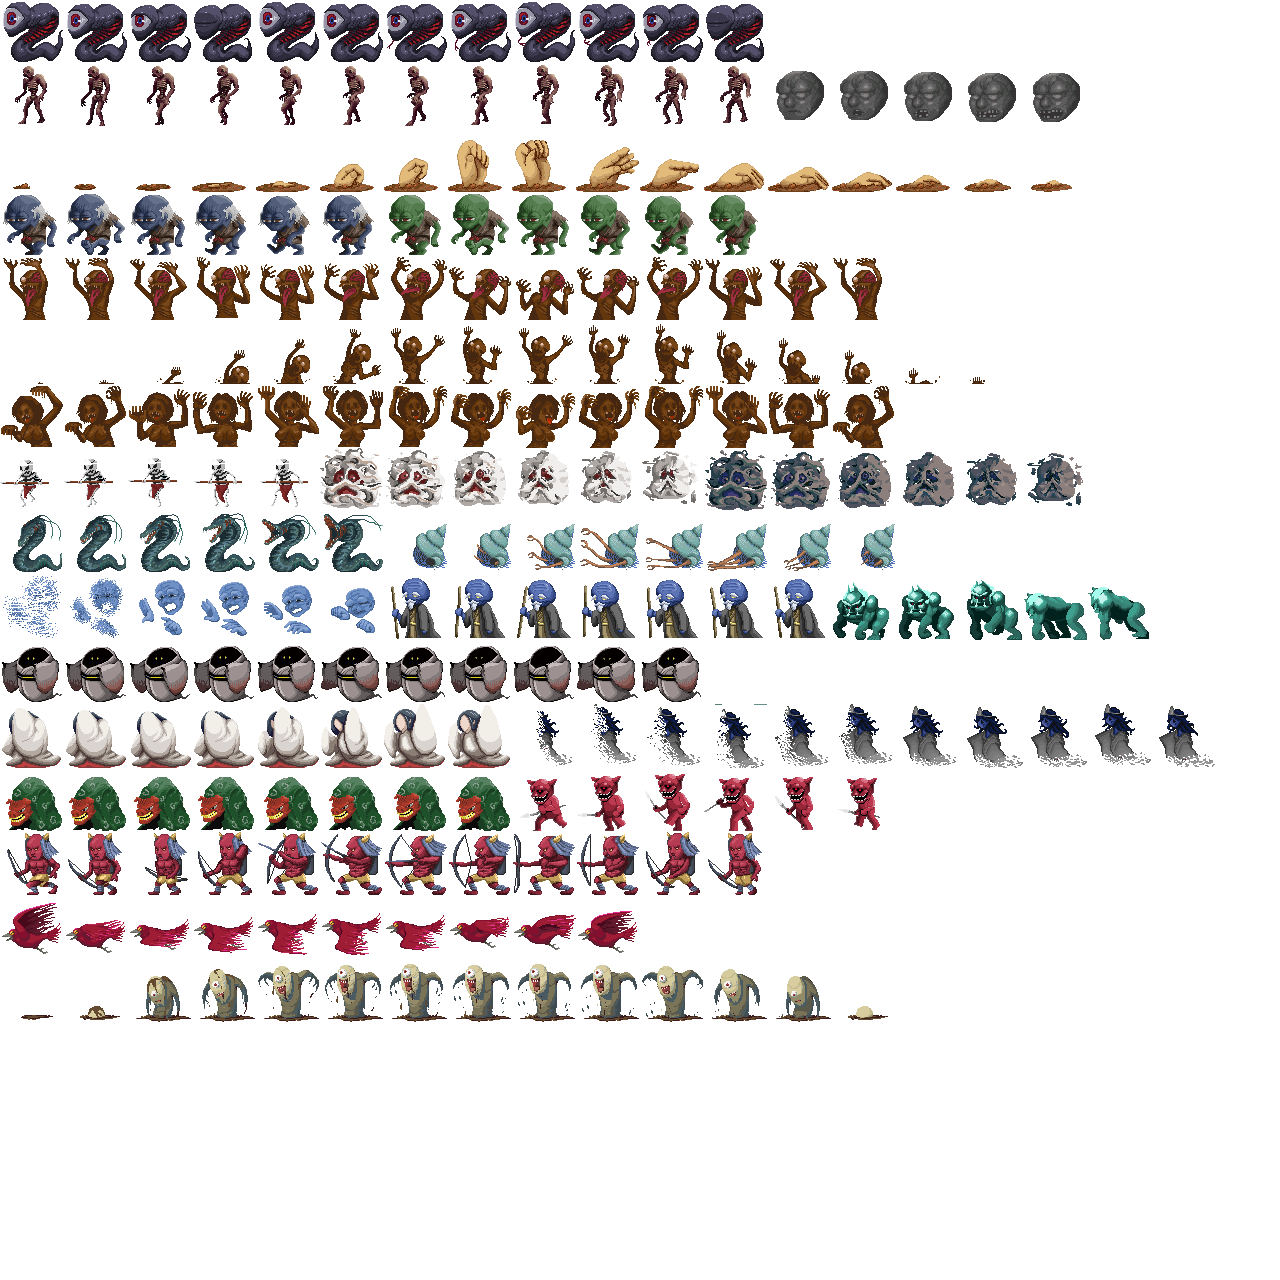
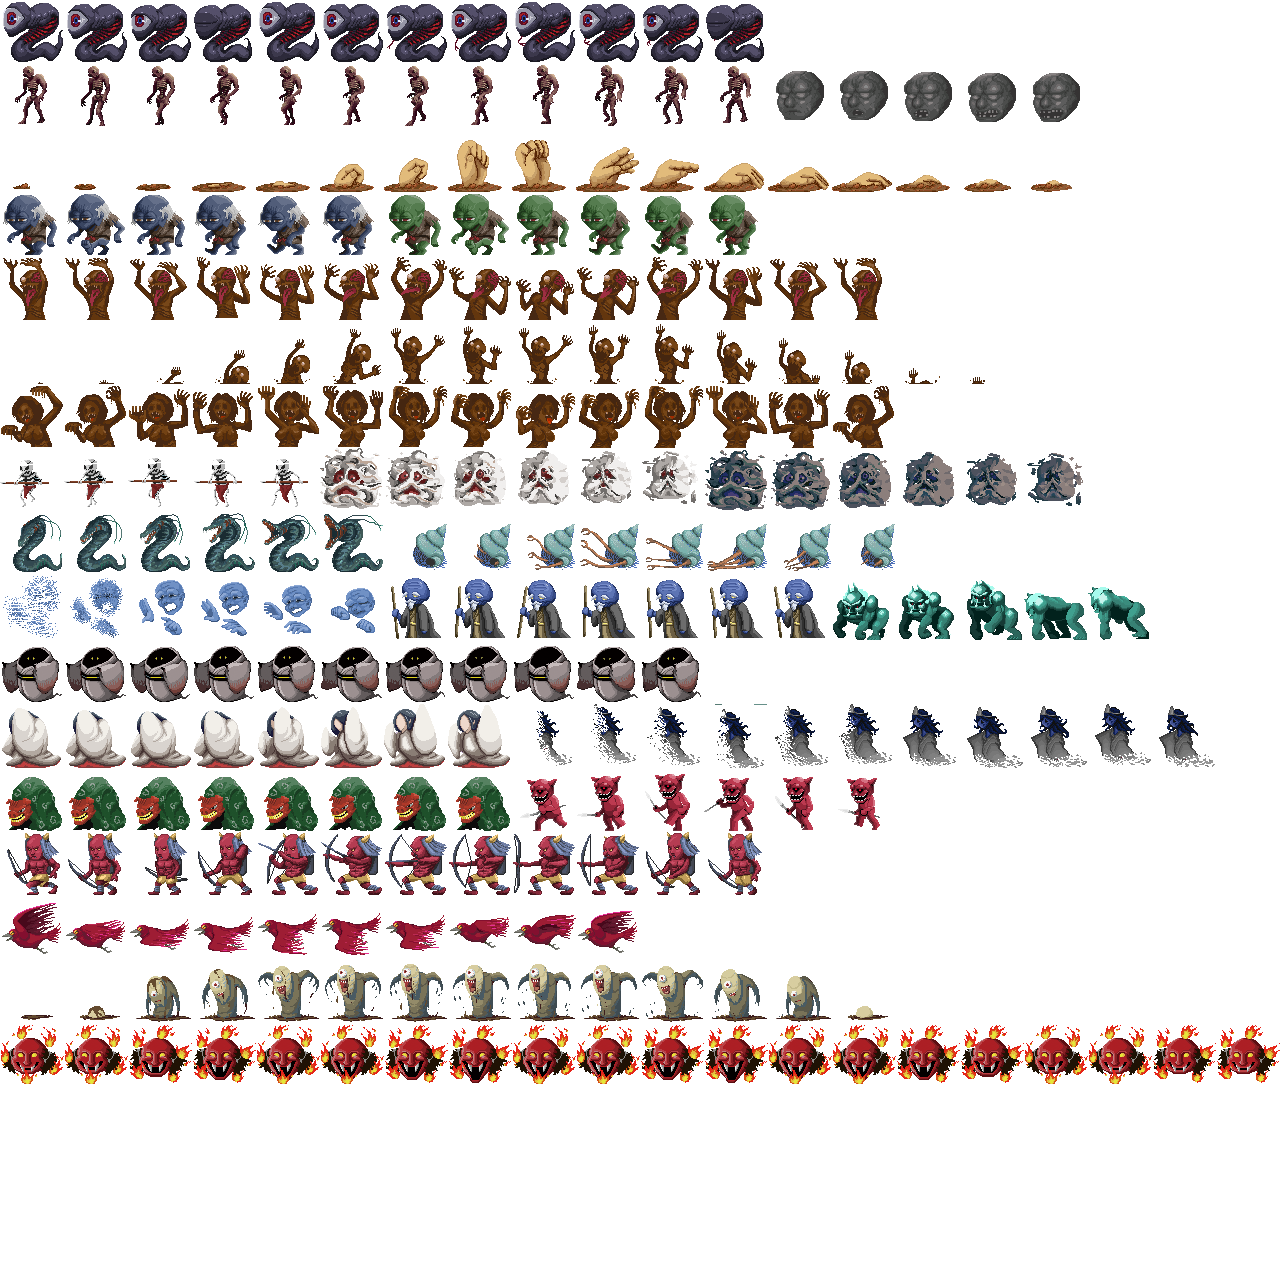
hellfire

Changed region(s): [[0.0, 0.7812, 1.0, 0.8438]]

diff --git a/Solution/AceLiveMonitor/EnemyHellFire.cpp b/Solution/AceLiveMonitor/EnemyHellFire.cpp
@@ -1,39 +1,37 @@
-#include "EnemyCrocoSnake.h"
+#include "EnemyHellFire.h"
+#include "Family.h"
 
+static const int HP = 3;
+static const double MOVE_SPEED = 3;
+static const double ACCEL = 0.5;
 static const int WAIT_ANIM_TIME = 5;
-static const int MOVE_SPEED = 1;
-static const int MAX_HP = 3;
 
-EnemyCrocoSnake::EnemyCrocoSnake( const Vector& pos ) :
-Enemy( pos, NORMAL_CHAR_GRAPH_SIZE, MAX_HP ),
-_before_pos( Vector( ) ) {
-	setRadius( 30 );
+EnemyHellFire::EnemyHellFire( const Vector& pos ) :
+Enemy( pos, NORMAL_CHAR_GRAPH_SIZE, HP, false ) {
 	setVec( Vector( MOVE_SPEED, 0 ) );
 }
 
 
-EnemyCrocoSnake::~EnemyCrocoSnake( ) {
+EnemyHellFire::~EnemyHellFire( ) {
 }
 
-void EnemyCrocoSnake::act( ) {
-	if ( _before_pos.x == getPos( ).x ) {
-		if ( getDir( ) == DIR_LEFT ) {
-			setVec( Vector( MOVE_SPEED, 0 ) );
-		} else {
-			setVec( Vector( -MOVE_SPEED, 0 ) );
-		}
-	}
-	_before_pos = getPos( );
+void EnemyHellFire::act( ) {
+	Vector target = Vector( Family::getTask( )->getCameraPos( ) + GRAPH_SIZE, GRAPH_SIZE / 2 );
+	Vector distance = target - getPos( );
+	Vector vec = getVec( ) + distance.normalize( ) * ACCEL;
+	vec = vec.normalize( ) * MOVE_SPEED;
+	setVec( vec );
 }
 
-Chip EnemyCrocoSnake::getChip( ) const {
+Chip EnemyHellFire::getChip( ) const {
 	const int ANIM[ ] = {
-		0, 1, 2, 3, 4, 5, 4, 3, 2, 1
+		 0,  1,  2,  3,  4,  5,  6,  7,  8,  9,
+		10, 11, 12, 13, 14, 15, 16, 17, 18, 19,
 	};
 	int anim_size = sizeof( ANIM ) / sizeof( ANIM[ 0 ] );
 	Chip chip = Chip( );
 	chip.tx = ANIM[ getActCount( ) / WAIT_ANIM_TIME % anim_size ] * 64;
-	chip.ty = 8 * 64;
+	chip.ty = 16 * 64;
 	chip.size = getChipSize( );
 	
 	Vector pos = getPos( );

diff --git a/Solution/AceLiveMonitor/Military.h b/Solution/AceLiveMonitor/Military.h
@@ -16,6 +16,7 @@ public:
 	Military( );
 	virtual ~Military( );
 public:
+	void initialize( );
 	void update( );
 	EnemyPtr getOverlappedEnemy( CharacterConstPtr character ) const;
 	const std::list< EnemyPtr > getEnemyList( ) const;
@@ -32,6 +33,7 @@ private:
 	std::list< EnemyPtr > _enemies;
 	std::list< EnemyPtr > _event_enemies;
 	std::list< ImpactPtr > _impacts;
+	EnemyPtr _hell_fire;
 	EnemyPtr _boss;
 };
 

diff --git a/Solution/AceLiveMonitor/Player.h b/Solution/AceLiveMonitor/Player.h
@@ -15,6 +15,7 @@ public:
 		ACTION_CHARGE,
 		ACTION_OVER_CHARGE,
 		ACTION_DAMEGE,
+		ACTION_BLOW_AWAY,
 	};
 public:
 	Player( int player_id, Vector pos );
@@ -28,6 +29,7 @@ public:
 	Chip getChargeChip( ) const;
 	bool isOnHead( EnemyPtr target ) const;
 	void bound( );
+	void blowAway( );
 	int getHandMoney( ) const;
 	void getMoney( int money );
 	int getHandToku( ) const;

diff --git a/Solution/AceLiveMonitor/EnemyHellFire.h b/Solution/AceLiveMonitor/EnemyHellFire.h
@@ -1,0 +1,12 @@
+#pragma once
+#include "Enemy.h"
+class EnemyHellFire : public Enemy {
+public:
+	EnemyHellFire( const Vector& pos );
+	virtual ~EnemyHellFire( );
+public:
+	Chip getChip( ) const;
+protected:
+	void act( );
+};
+

diff --git a/Solution/AceLiveMonitor/EnemyCrocoSnake.h b/Solution/AceLiveMonitor/EnemyCrocoSnake.h
@@ -11,6 +11,5 @@ protected:
 	void act( );
 private:
 	Vector _before_pos;
-	Vector _vec;
 };
 
